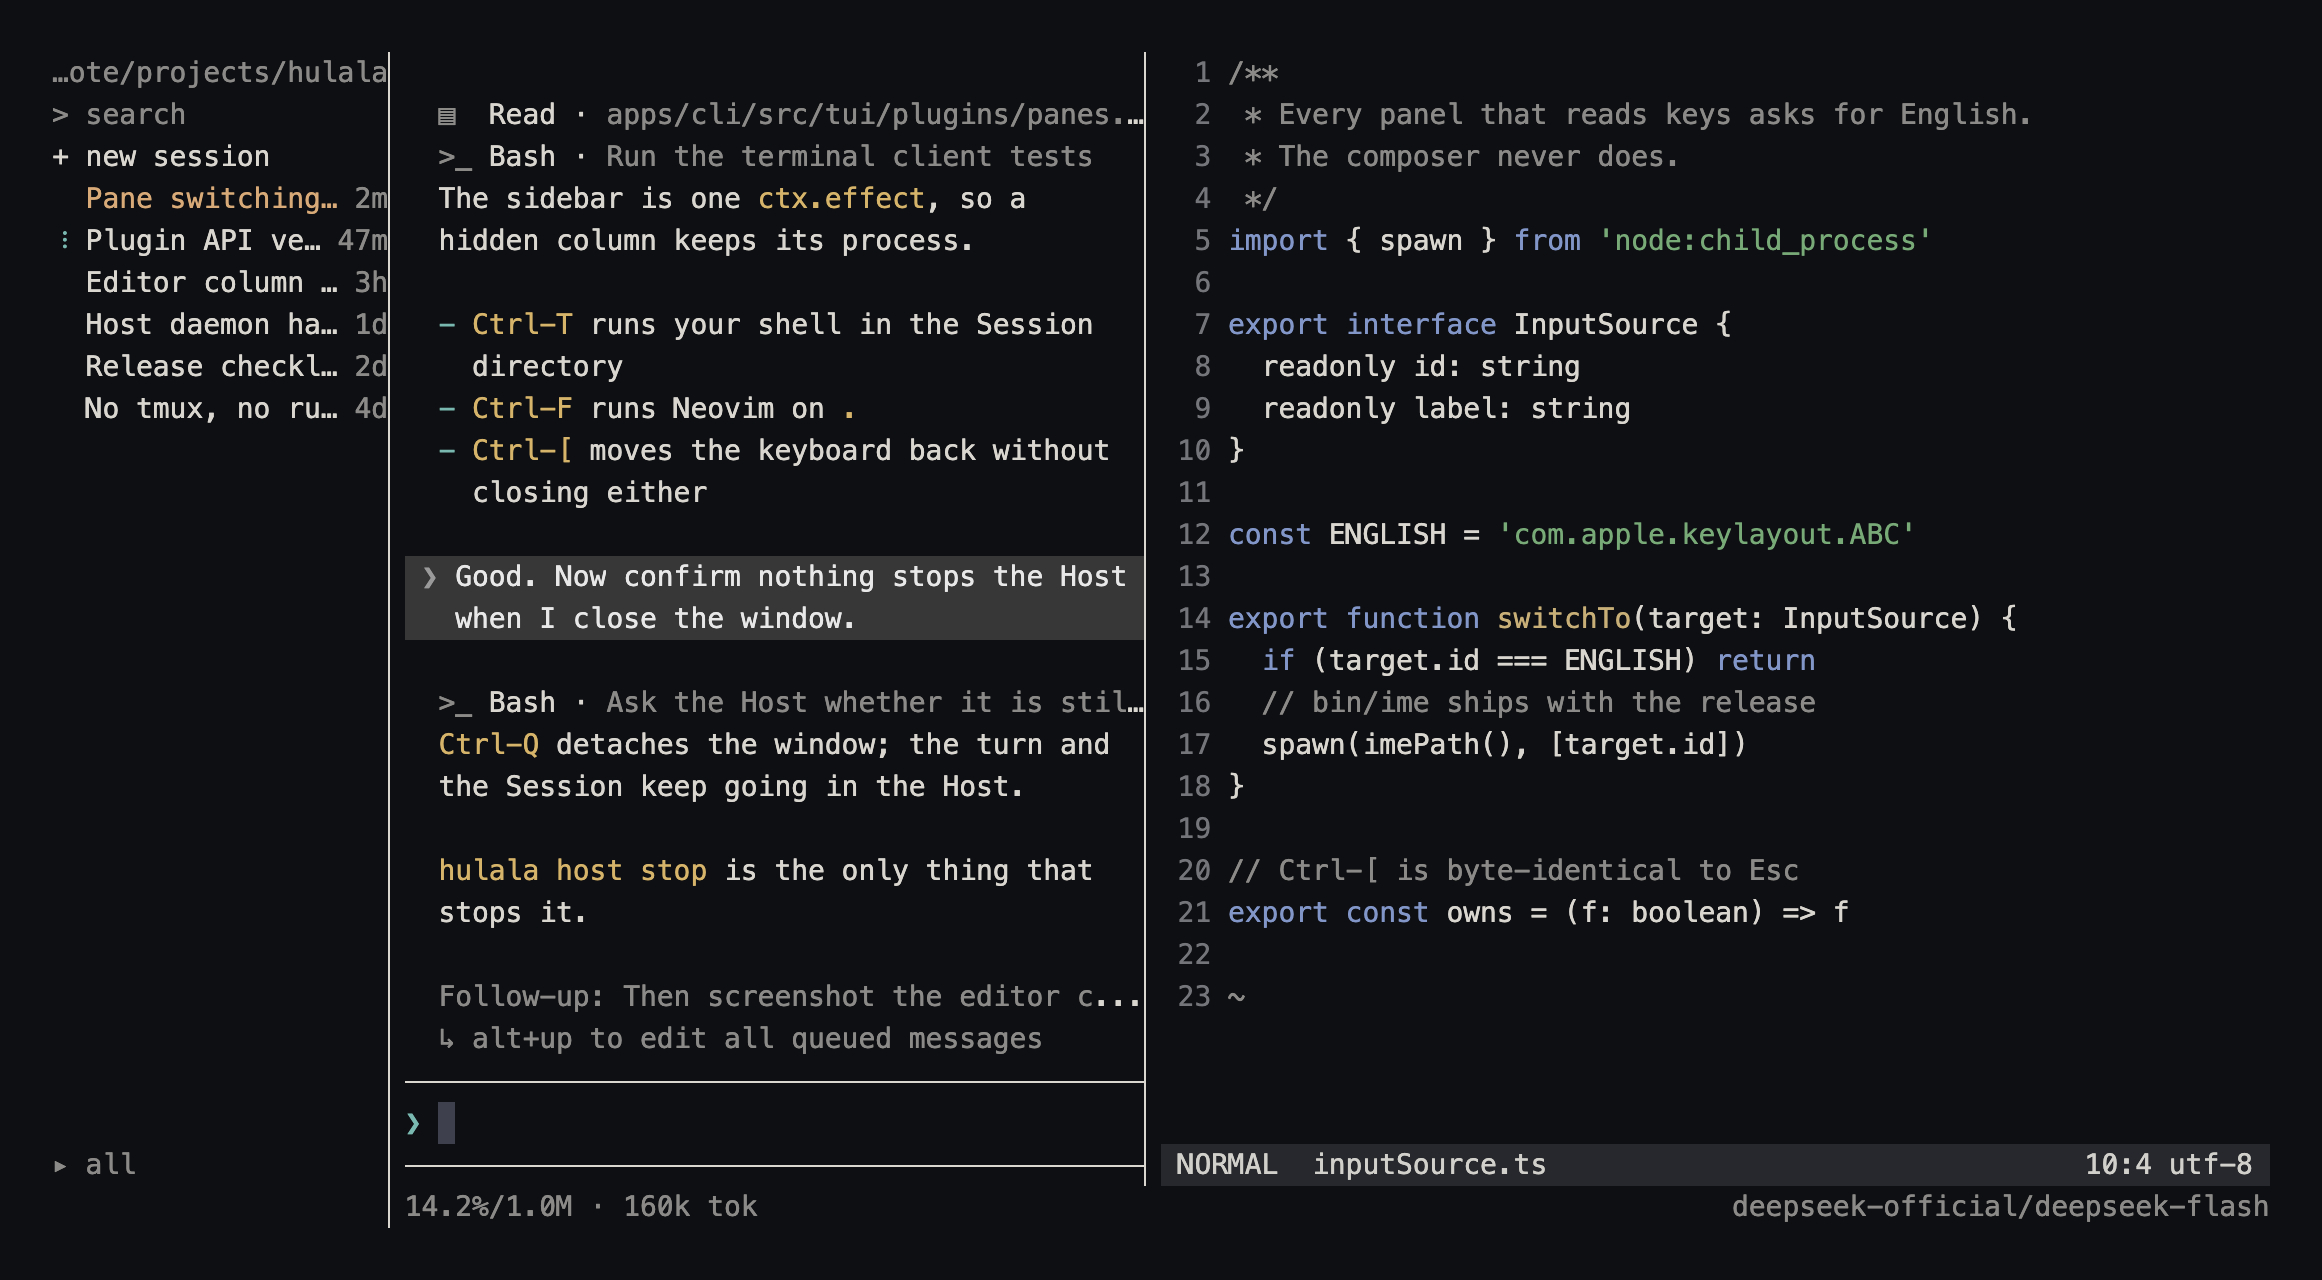
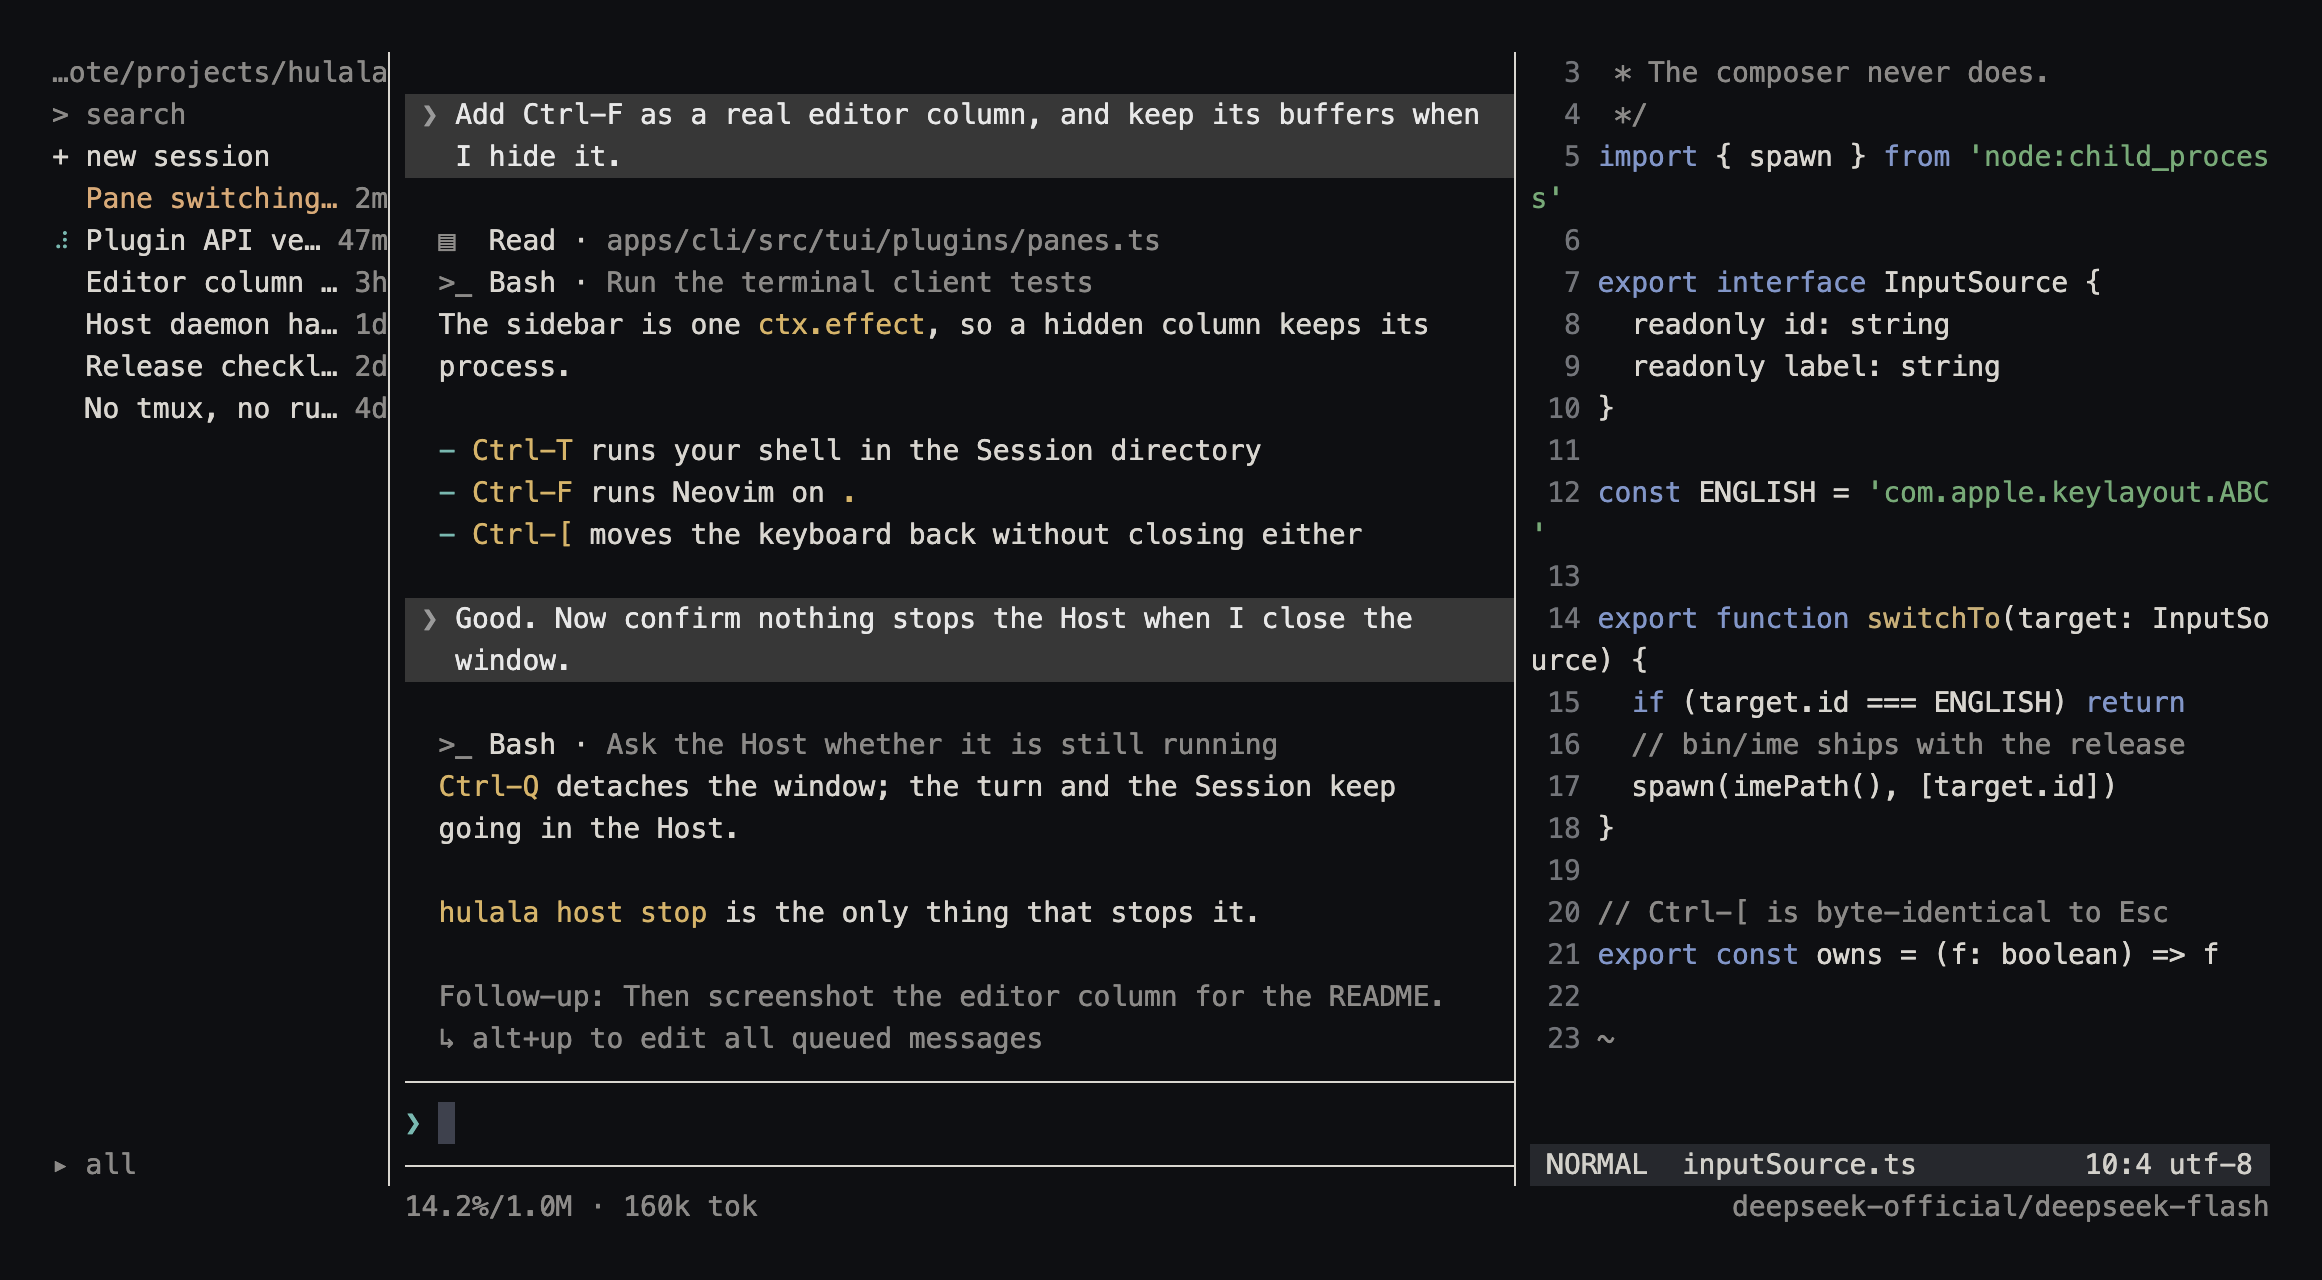
Frame the columns on one bottom rule; default the sidebar to a third
The composer's bottom line is the frame's bottom line: every side column and
divider ends on it, so the rule runs to both edges whatever the number of
panels, and the status row is the plain row underneath — readings under the
conversation, model at the right edge, no fill of its own.

The terminal and editor columns now open at a third of the terminal instead of
half; the drag range is unchanged.

Release 0.2.3.

Changed region(s): [[0.155, 0.0312, 0.9922, 0.8125], [0.4961, 0.875, 0.8062, 0.9375], [0.5891, 0.1875, 0.6202, 0.2188]]

diff --git a/apps/cli/src/tui/view/layout.ts b/apps/cli/src/tui/view/layout.ts
@@ -65,17 +65,35 @@ class BlankColumn implements Component {
 }
 
 /**
- * One row of a full-height column rule.
+ * The frame's bottom rule: the composer's own bottom line, continued.
  *
- * The footer is a row, not a column, but its rule has to line up with the
- * divider above it and reach the terminal's bottom edge. Slicing the divider's
- * own output keeps both — including its hover state — in the same place.
+ * Every column ends on this one line and the vertical dividers stop on it, so
+ * the columns read as panes of one window rather than three stacked boxes. It is
+ * drawn with the same dim styling the composer's border uses, which is what
+ * makes the conversation's segment and the others look like one line.
  */
-class RuleRow implements Component {
-  constructor(private readonly source: Component) {}
+class BottomRule implements Component {
   invalidate(): void {}
-  render(): string[] {
-    return [this.source.render(1)[0] ?? ' ']
+  render(width: number): string[] {
+    return [`\u001b[2m${'\u2500'.repeat(Math.max(0, width))}\u001b[0m`]
+  }
+}
+
+/**
+ * A column with the frame's bottom rule under it.
+ *
+ * The rule has to sit on one row across the frame, so each column reserves that
+ * row for itself instead of letting its content run to the last line. The
+ * conversation needs no wrapper: its composer already draws the segment.
+ */
+class RuledColumn implements Component {
+  constructor(private readonly body: Component, private readonly rule: Component) {}
+  invalidate(): void {
+    this.body.invalidate()
+    this.rule.invalidate()
+  }
+  render(width: number): string[] {
+    return [...this.body.render(width), ...this.rule.render(width)]
   }
 }
 
@@ -244,34 +262,34 @@ export function buildRailTerminalLayout(options: RailLayoutOptions): SplitTermin
   const pane = options.pane
   let paneWidth = pane === undefined ? 0 : Math.max(SPLIT_MIN_SIZE, Math.round(pane.width))
 
+  const rule = new BottomRule()
   const entries: NonNullable<ConstructorParameters<typeof HStack>[0]> = [
-    { component: options.rail, basis: railWidth, grow: 0, shrink: 0 },
-    { component: options.railDivider, basis: SPLIT_GAP, shrink: 0 },
+    { component: new RuledColumn(options.rail, rule), basis: railWidth, grow: 0, shrink: 0 },
+    { component: new RuledColumn(options.railDivider, rule), basis: SPLIT_GAP, shrink: 0 },
     { component: conversation, basis: 0, grow: 1, shrink: 1, minSize: RAIL_CONVERSATION_MIN },
   ]
+  const ruledPane = pane === undefined ? undefined : new RuledColumn(pane.component, rule)
   if (pane !== undefined) {
     entries.push(
-      { component: pane.divider, basis: SPLIT_GAP },
-      { component: pane.component, basis: paneWidth, grow: 0, shrink: 1, minSize: SPLIT_MIN_SIZE },
+      { component: new RuledColumn(pane.divider, rule), basis: SPLIT_GAP },
+      { component: ruledPane!, basis: paneWidth, grow: 0, shrink: 1, minSize: SPLIT_MIN_SIZE },
     )
   }
 
   const columns = new HStack(entries)
 
-  // The footer runs to the frame's right edge — the model label belongs there —
-  // but the rail never owns it: a blank column of the rail's width, then the
-  // rail's own divider, then the readings, which therefore start exactly at the
-  // conversation's left edge. The divider is drawn in the footer too, so the
-  // rule reaches the terminal's bottom row instead of stopping above it.
-  const statusRow = new HStack([
-    { component: new BlankColumn(), basis: railWidth, grow: 0, shrink: 0 },
-    { component: new RuleRow(options.railDivider), basis: SPLIT_GAP, grow: 0, shrink: 0 },
-    { component: options.statusBar, basis: 0, grow: 1, shrink: 1, minSize: 1 },
-  ])
-
+  // One status row under the frame's bottom rule. It spans the whole width — it
+  // is the frame's footer, not a column's — but its readings begin at the
+  // conversation's left edge, and the model label keeps the right one.
   const root = new VStack([
     { component: columns, basis: 0, grow: 1, shrink: 1, minSize: 1 },
-    { component: statusRow, shrink: 0 },
+    {
+      component: new HStack([
+        { component: new BlankColumn(), basis: railWidth + SPLIT_GAP, grow: 0, shrink: 0 },
+        { component: options.statusBar, basis: 0, grow: 1, shrink: 1, minSize: 1 },
+      ]),
+      shrink: 0,
+    },
   ])
 
   /** Move the editor divider; without a pane this layout has nothing to resize. */
@@ -280,8 +298,8 @@ export function buildRailTerminalLayout(options: RailLayoutOptions): SplitTermin
     const next = Math.max(SPLIT_MIN_SIZE, Math.round(width))
     if (next === paneWidth) return
     paneWidth = next
-    columns.removeChild(pane.component)
-    columns.addChild(pane.component, { basis: paneWidth, grow: 0, shrink: 1, minSize: SPLIT_MIN_SIZE })
+    columns.removeChild(ruledPane!)
+    columns.addChild(ruledPane!, { basis: paneWidth, grow: 0, shrink: 1, minSize: SPLIT_MIN_SIZE })
   }
 
   return { root, transcriptScroll, setPaneWidth }
@@ -312,8 +330,12 @@ export function buildSideColumnsLayout(options: SideColumnsLayoutOptions): SideC
           { component: pane.component, basis: paneWidth, grow: 0, shrink: 1, minSize: SPLIT_MIN_SIZE },
         ])
 
+  // Even with the conversation put away the frame keeps its bottom line: the
+  // side columns end on it and the status row sits under it, as it does when the
+  // conversation is on screen.
   const root = new VStack([
     { component: columns, basis: 0, grow: 1, shrink: 1, minSize: 1 },
+    { component: new BottomRule(), shrink: 0 },
     { component: options.statusBar, shrink: 0 },
   ])
 
@@ -354,10 +376,14 @@ export function buildSplitTerminalLayout(options: SplitTerminalLayoutOptions): S
 
   let paneWidth = Math.max(SPLIT_MIN_SIZE, Math.round(options.paneWidth))
 
+  // The composer's bottom line continues across the editor column too, so the
+  // frame reads the same with one side column as with two.
+  const rule = new BottomRule()
+  const ruledPane = new RuledColumn(options.pane, rule)
   const columns = new HStack([
     { component: conversation, basis: 0, grow: 1, shrink: 1, minSize: SPLIT_MIN_SIZE },
-    { component: options.divider, basis: SPLIT_GAP },
-    { component: options.pane, basis: paneWidth, grow: 0, shrink: 1, minSize: SPLIT_MIN_SIZE },
+    { component: new RuledColumn(options.divider, rule), basis: SPLIT_GAP },
+    { component: ruledPane, basis: paneWidth, grow: 0, shrink: 1, minSize: SPLIT_MIN_SIZE },
   ])
 
   const root = new VStack([
@@ -374,8 +400,8 @@ export function buildSplitTerminalLayout(options: SplitTerminalLayoutOptions): S
     const next = Math.max(SPLIT_MIN_SIZE, Math.round(width))
     if (next === paneWidth) return
     paneWidth = next
-    columns.removeChild(options.pane)
-    columns.addChild(options.pane, { basis: paneWidth, grow: 0, shrink: 1, minSize: SPLIT_MIN_SIZE })
+    columns.removeChild(ruledPane)
+    columns.addChild(ruledPane, { basis: paneWidth, grow: 0, shrink: 1, minSize: SPLIT_MIN_SIZE })
   }
 
   return { root, transcriptScroll, setPaneWidth }

diff --git a/apps/cli/tests/client/layout.test.ts b/apps/cli/tests/client/layout.test.ts
@@ -237,18 +237,15 @@ test('the rail, the conversation and the editor each get their columns', () => {
   expect(conversation?.rect.width).toBe(68)
   expect(divider?.rect.x).toBe(87)
   expect(editor?.rect).toMatchObject({ x: 88, width: 32 })
-  // The footer runs to the frame's right edge; the rail's rule ends it on the
-  // left, and the readings start exactly at the conversation's left edge.
+  // The footer is one bar across the whole frame, and the readings inside it
+  // start exactly at the conversation's left edge.
   const footer = withEditor.root.children[1]
-  const [gap, rule, statusBox] = footer?.children ?? []
-  expect(gap?.rect).toMatchObject({ x: 0, width: 18, height: 1 })
-  expect(rule?.rect).toMatchObject({ x: 18, width: 1, height: 1 })
-  expect(statusBox?.rect).toMatchObject({ x: 19, y: 23, height: 1 })
+  expect(footer?.rect).toMatchObject({ x: 0, width: 120, y: 23, height: 1 })
   expect(rail?.rect.height).toBe(23)
   expect(railDivider?.rect.height).toBe(23)
   expect(divider?.rect.height).toBe(23)
   const statusLine = strip(withEditor.lines.at(-1) ?? '')
-  expect(statusLine[18]).toBe('|')
+  expect(statusLine.slice(0, 19).trim()).toBe('')
   expect(statusLine.slice(19)).toStartWith('status')
 
   // Without the editor the conversation takes everything the rail leaves.

diff --git a/apps/cli/src/tui/plugins/panes.ts b/apps/cli/src/tui/plugins/panes.ts
@@ -151,10 +151,11 @@ export function apply(ctx: Context, config: PanesPluginConfig): void {
   let conflictTimer: ReturnType<typeof setInterval> | undefined
   let dividerHovered = false
   /**
-   * Width share per column, kept across closing and resizes. A terminal is read
-   * line by line, so it starts wider than the editor column does.
+   * Width share per column, kept across closing and resizes. Both columns start
+   * at a third of the terminal: the conversation keeps two thirds of the reading
+   * width, and the divider still drags both ways.
    */
-  const ratios: Record<PaneKind, number> = { terminal: 0.55, editor: 0.5 }
+  const ratios: Record<PaneKind, number> = { terminal: 1 / 3, editor: 1 / 3 }
 
   const rows = (): number => Math.max(1, terminal.rows - 1)
 
